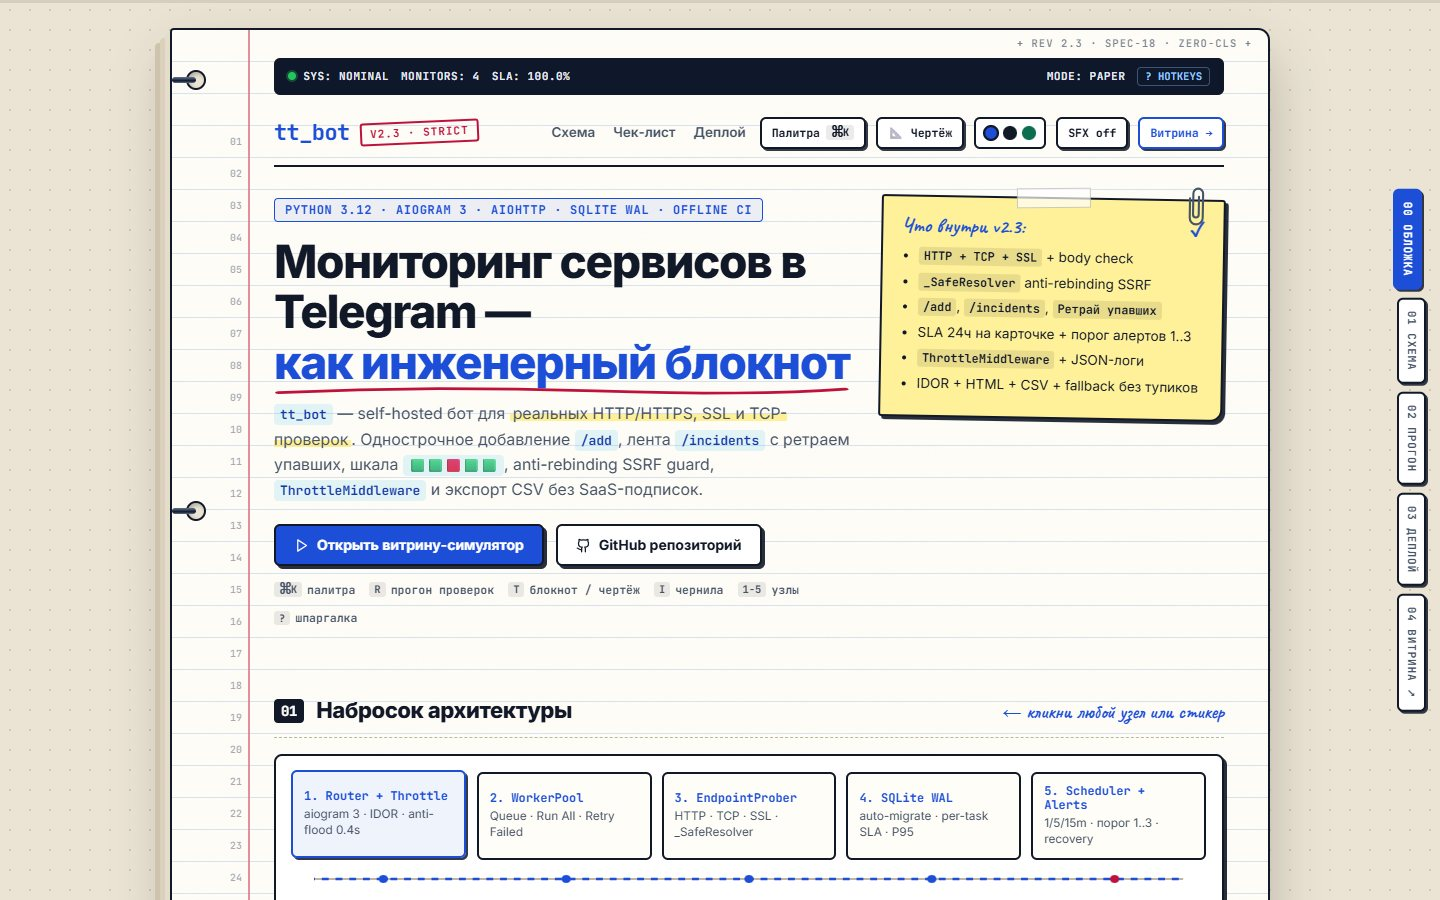
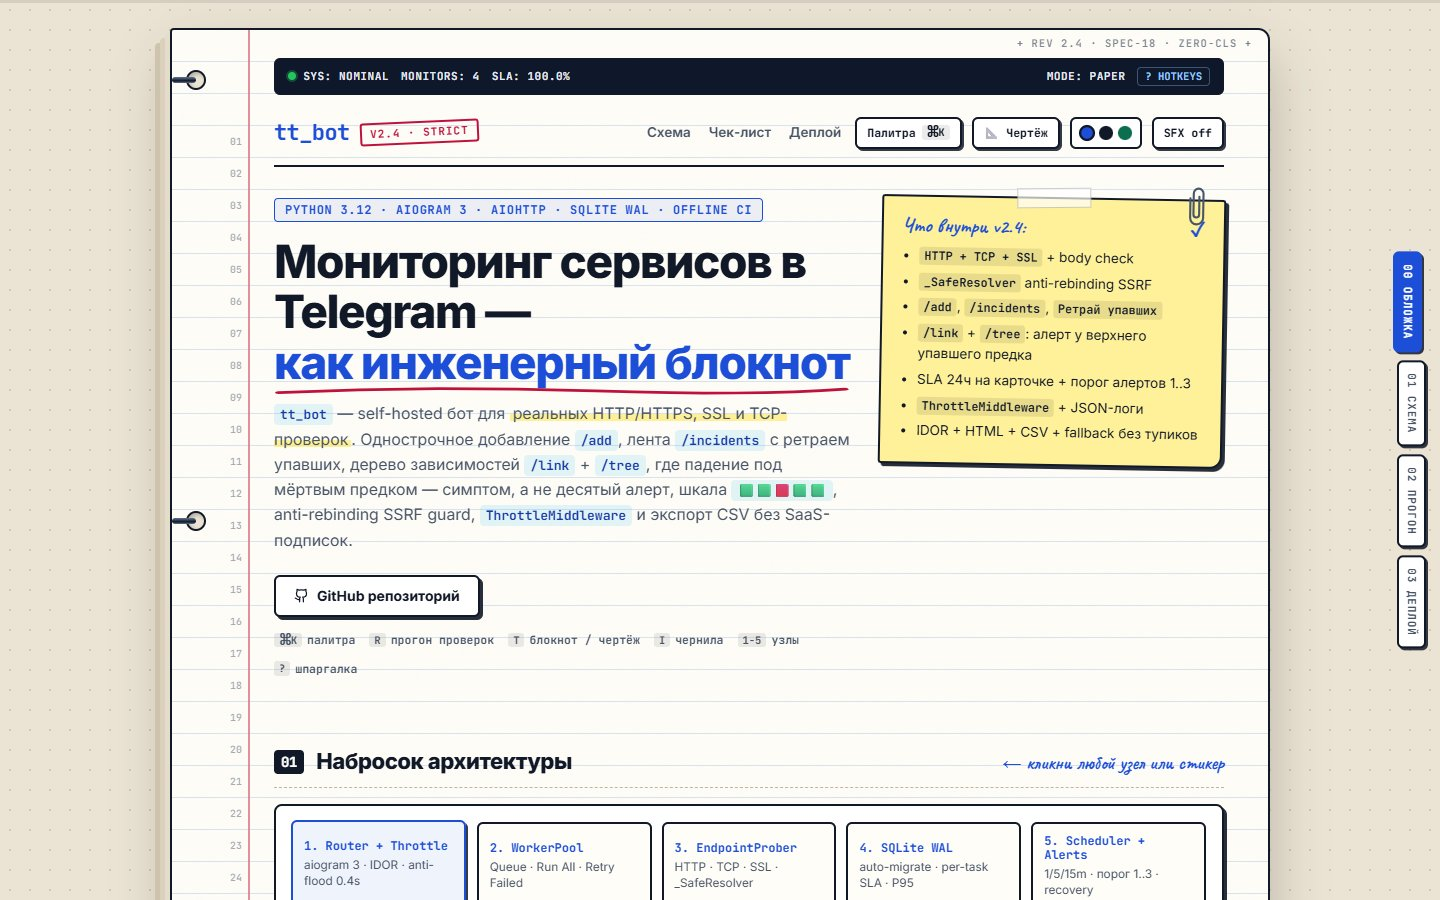
chore(hub): tt_bot v2.4 - свежий экран карточки и 67 тестов из CI (#28)
assets/tt_bot.jpg показывал прошлую витрину: REV 2.3, стикер «Что
внутри v2.3» и кнопку «Открыть витрину-симулятор», которой на сайте
нет с tt_bot 92ac9e021aa8 (docs: remove duplicate showcase page).
Заменён на рендер текущего docs/index.html (1440x900, JPEG q85) -
ровно те же байты, что теперь лежат в README репозитория, поэтому
хаб и репозиторий не могут показать разные экраны.

Число тестов 66 -> 67: CI на merged-коммите ssrjkk/tt_bot 612341bd
даёт 67 passed и 94.87% покрытия. Цифры берутся из логов CI, а не из
локального прогона.

alt у карточки называл продукт «мониторинг эндпоинтов» - это убранная
позиционировка; теперь чат-ops с деревом зависимостей /link и /tree.

cloudflare-worker/worker.js пересобран тем же esbuild и теми же
флагами, что npm run build: CI сверяет бандл через
git diff --exit-code, и коммит непроверенного бандла выронил бы
изменение данных.

Локально: check-bundle.mjs OK (22 проекта, 22 сайта, 5 ботов,
2 привязки), 172/172 тестов воркера, покрытие 99.73/97.18/97.48
против порогов 99.5/96.5/97, node --check чист, LF без CRLF.

diff --git a/bot/cloudflare-worker/worker.js b/bot/cloudflare-worker/worker.js
@@ -397,8 +397,8 @@ var projects_default = {
       title: "TT Bot",
       lang: "Python",
       stars: 0,
-      desc: "Чат-ops мониторинг прямо из Telegram: HTTP/HTTPS, SSL-сертификаты и TCP-сервисы за anti-rebinding SSRF guard, дерево зависимостей мониторов /link и /tree с атрибуцией первопричины и подавлением симптомных алертов, границы доступа по user_id, троттлинг, расписание и алерты по порогу, SLA и P50/P95 на каждый монитор, история в SQLite WAL и CSV с санитайзером формул. Один Docker-контейнер на read-only ФС, 66 офлайн-тестов, покрытие 94.87%.\nСтек: Python, aiogram 3, aiosqlite",
-      desc_en: "Chat-ops monitoring run entirely from Telegram: HTTP/HTTPS, SSL certificate and TCP probes behind an anti-rebinding SSRF guard, a monitor dependency tree (/link, /tree) that attributes an outage to its root cause and suppresses symptom alerts, per-user access boundaries, throttling, schedules and threshold alerts, SLA with P50/P95 per monitor, SQLite WAL history and formula-sanitized CSV export. Ships as one read-only Docker container; 66 offline tests, 94.87% coverage.\nStack: Python, aiogram 3, aiosqlite",
+      desc: "Чат-ops мониторинг прямо из Telegram: HTTP/HTTPS, SSL-сертификаты и TCP-сервисы за anti-rebinding SSRF guard, дерево зависимостей мониторов /link и /tree с атрибуцией первопричины и подавлением симптомных алертов, границы доступа по user_id, троттлинг, расписание и алерты по порогу, SLA и P50/P95 на каждый монитор, история в SQLite WAL и CSV с санитайзером формул. Один Docker-контейнер на read-only ФС, 67 офлайн-тестов, покрытие 94.87%.\nСтек: Python, aiogram 3, aiosqlite",
+      desc_en: "Chat-ops monitoring run entirely from Telegram: HTTP/HTTPS, SSL certificate and TCP probes behind an anti-rebinding SSRF guard, a monitor dependency tree (/link, /tree) that attributes an outage to its root cause and suppresses symptom alerts, per-user access boundaries, throttling, schedules and threshold alerts, SLA with P50/P95 per monitor, SQLite WAL history and formula-sanitized CSV export. Ships as one read-only Docker container; 67 offline tests, 94.87% coverage.\nStack: Python, aiogram 3, aiosqlite",
       repo: "https://github.com/ssrjkk/tt_bot",
       site: "https://ssrjkk.github.io/tt_bot/",
       shot: "https://raw.githubusercontent.com/ssrjkk/ssrjkk/main/assets/shots/tt_bot.jpg",

diff --git a/index.html b/index.html
@@ -666,7 +666,7 @@ h2{font-size:clamp(30px,4.3vw,46px);line-height:1.04;letter-spacing:-.045em;font
 
         <article class="card">
           <a class="shot" href="https://ssrjkk.github.io/tt_bot/" target="_blank" rel="noopener" aria-label="Открыть сайт tt_bot">
-            <img src="assets/tt_bot.jpg" alt="Экран tt_bot: мониторинг эндпоинтов, SSL и TCP с историей и SLA" loading="lazy">
+            <img src="assets/tt_bot.jpg" alt="Экран tt_bot: чат-ops мониторинг с деревом зависимостей /link и /tree" loading="lazy">
             <span class="badge live">live</span>
           </a>
           <div class="card-body">
